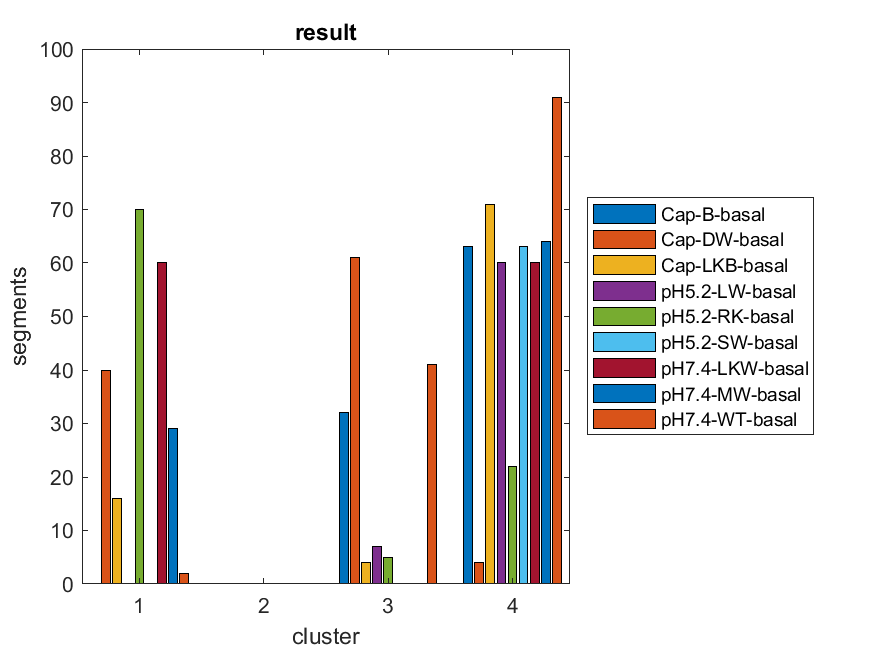
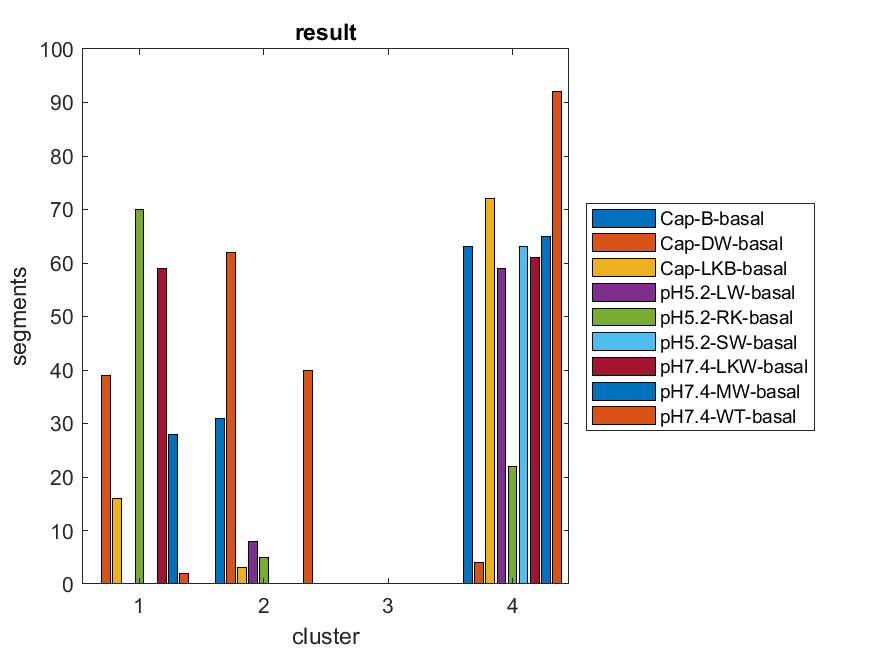
myHACA fix run 3

diff --git a/aca-simp/myHACA.m b/aca-simp/myHACA.m
@@ -60,6 +60,7 @@ end
 save("tmp.mat");
 
 nseg = reCluster(nX,ns,sel_num);
-ends = ns(splits(1:end-1));
+ends = [1 ns(splits(1:end-1))];
+ends = [ends ns(end)];
 [sP, LP, ss, labels] = segPart(nseg.s,nseg.G,ends);
 clusterPlot(labels,nnames,strcat(out_path,'recluster.png'));
